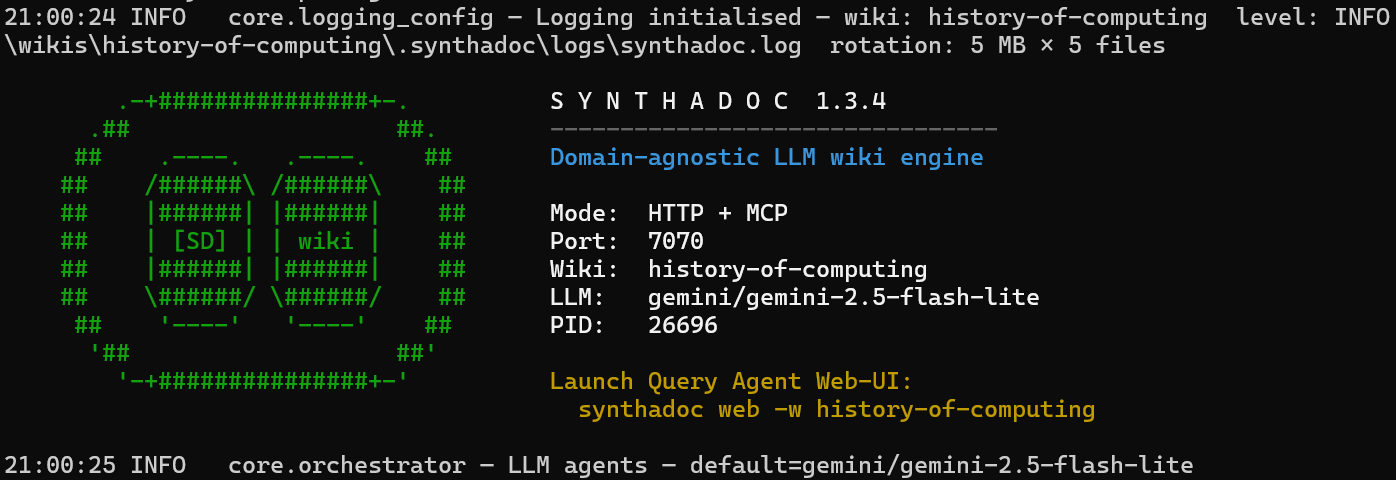
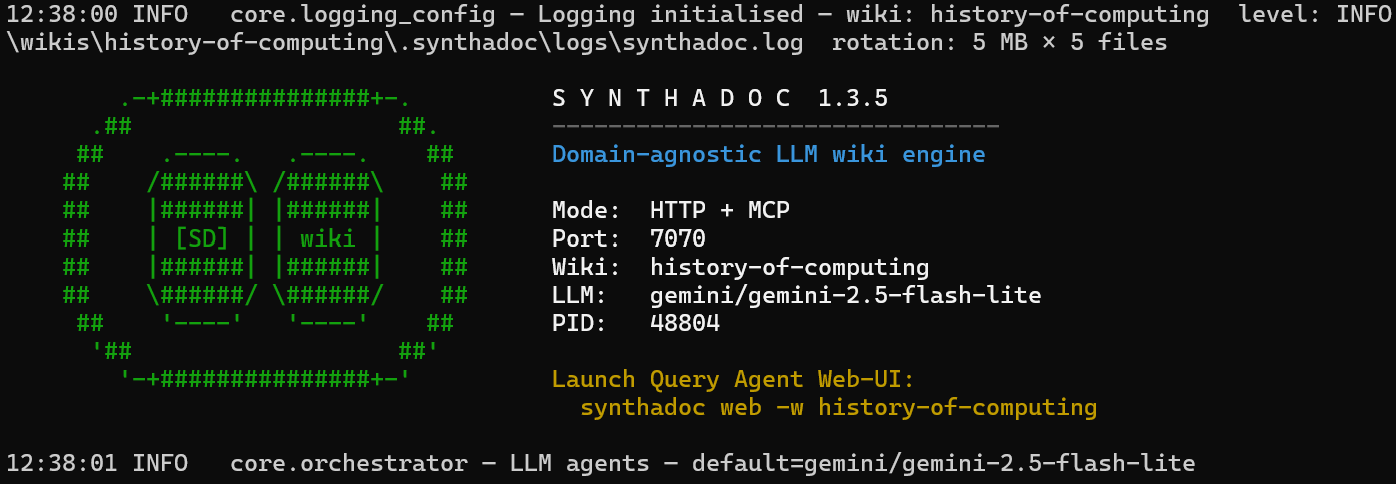
[v1.3.5] release prep (#424)
* chore: bump version to v1.3.5 and update release docs

- Bump VERSION, obsidian-plugin manifests, and package.json to 1.3.5
- Update README.md: version strings, web UI competitive row now mentions
  light/dark theme toggle
- Update docs/design.md: version header; add v1.3.5 Appendix A entry
  covering WAL mode, dark/light theme toggle, force-bypass staging,
  query-agent stale pre-prompt fix, candidates CLI delegation,
  Windows Ctrl-C shutdown, architecture diagram, and seed refresh
- Update docs/user-quick-start-guide.md: version header; add WAL mode
  note to Appendix J (Backup & Restore)
- Sync README-pypi.md from updated README.md
- Rebuild obsidian-plugin (v1.3.5) and web-ui for distribution

* docs: mention system mode in web UI theme toggle description

* update serve.png

diff --git a/README-pypi.md b/README-pypi.md
@@ -14,7 +14,7 @@
       '-+###############+-'
 
        S Y N T H A D O C
-    Community Edition  v1.3.4
+    Community Edition  v1.3.5
   ────────────────────────────────
   Domain-agnostic LLM wiki engine
 ```
@@ -31,10 +31,10 @@
 <a href="https://github.com/axoviq-ai/synthadoc"><img src="https://img.shields.io/badge/dynamic/json?url=https%3A%2F%2Fraw.githubusercontent.com%2Faxoviq-ai%2Fsynthadoc%2Fbadges%2Fdocs%2Fbadges.json&query=%24.cli_commands&label=CLI%20commands&color=darkblue" alt="CLI commands"/></a>
 <a href="https://github.com/axoviq-ai/synthadoc/tree/main/obsidian-plugin"><img src="https://img.shields.io/badge/dynamic/json?url=https%3A%2F%2Fraw.githubusercontent.com%2Faxoviq-ai%2Fsynthadoc%2Fbadges%2Fdocs%2Fbadges.json&query=%24.obsidian_commands&label=Obsidian%20commands&color=blueviolet" alt="Obsidian commands"/></a>
 <a href="https://github.com/axoviq-ai/synthadoc/blob/main/docs/user-quick-start-guide.md#agentic-workflows"><img src="https://img.shields.io/badge/dynamic/json?url=https%3A%2F%2Fraw.githubusercontent.com%2Faxoviq-ai%2Fsynthadoc%2Fbadges%2Fdocs%2Fbadges.json&query=%24.maintenance_workflows&label=Maintenance%20workflows&color=green" alt="Maintenance workflows"/></a>
-<a href="https://github.com/axoviq-ai/synthadoc"><img src="https://img.shields.io/badge/Community%20Edition-v1.3.4-brightgreen.svg" alt="Version"/></a>
+<a href="https://github.com/axoviq-ai/synthadoc"><img src="https://img.shields.io/badge/Community%20Edition-v1.3.5-brightgreen.svg" alt="Version"/></a>
 </p>
 
-**Document version: v1.3.4**
+**Document version: v1.3.5**
 
 **Engineered for solo users and enterprises alike, providing a domain-specific knowledge base that scales seamlessly while maintaining accuracy through autonomous self-optimization.**
 
@@ -192,7 +192,7 @@ Every **Yes** below is a built-in feature — no add-ons or upgrades required.
 | Capability                                                                                                                                                                                                                                                                                                                                                                                                                                                                                                                                   | Synthadoc | Typical RAG | NotebookLM | Notion AI |
 | -------------------------------------------------------------------------------------------------------------------------------------------------------------------------------------------------------------------------------------------------------------------------------------------------------------------------------------------------------------------------------------------------------------------------------------------------------------------------------------------------------------------------------------------- | --------- | ----------- | ---------- | --------- |
 | **[Obsidian integration](https://github.com/axoviq-ai/synthadoc/blob/main/docs/user-quick-start-guide.md#step-3--open-the-vault-in-obsidian)** — native plugin: ingest modal, streaming query, lint report, lifecycle controls, context pack builder, provenance viewer, export modal, **knowledge graph panel** (Canvas force graph, type filter, hover tooltip, click-to-open page); **background vault monitoring** (auto-snapshot on every file save, 2 s debounce, dedup so unchanged saves are free); Reading View set as default on install so citation chips are visible immediately | **Yes**   | No          | No         | No        |
-| **[Web chat UI](https://github.com/axoviq-ai/synthadoc/blob/main/docs/user-quick-start-guide.md#step-22--use-the-web-chat-ui)** — `synthadoc web`: streaming answers, session sidebar, multi-turn history, knowledge-gap callouts, knowledge graph tab                                                                                                                                                                                                                                                                                                                                       | **Yes**   | No          | Yes        | Yes       |
+| **[Web chat UI](https://github.com/axoviq-ai/synthadoc/blob/main/docs/user-quick-start-guide.md#step-22--use-the-web-chat-ui)** — `synthadoc web`: streaming answers, session sidebar, multi-turn history, knowledge-gap callouts, knowledge graph tab, **light/dark/system theme toggle**                                                                                                                                                                                                                                                                                                                                       | **Yes**   | No          | Yes        | Yes       |
 | **[MCP server](https://github.com/axoviq-ai/synthadoc/blob/main/docs/design.md#27-mcp-server)** — 12 tools; Claude Desktop (stdio), Claude Code (SSE), n8n/LangGraph (HTTP/SSE); brain+memory architecture; no double-LLM cost for reads                                                                                                                                                                                                                                                                                                                                                     | **Yes**   | No          | No         | No        |
 | **[Context packs](https://github.com/axoviq-ai/synthadoc/blob/main/docs/user-quick-start-guide.md#step-19--build-a-context-pack)** — goal → sub-questions → token-budget evidence pack; REST + MCP callable; paste into any LLM chat as grounded context                                                                                                                                                                                                                                                                                                                                   | **Yes**   | No          | No         | No        |
 | **[Export formats](https://github.com/axoviq-ai/synthadoc/blob/main/docs/user-quick-start-guide.md#step-21--export-your-wiki)** — `llms.txt`, `llms-full.txt`, GraphML, JSON (provenance + lifecycle), OKF v0.1 bundle; lifecycle-filtered; zero extra LLM calls                                                                                                                                                                                                                                                                                                                             | **Yes**   | No          | Partial    | No        |

diff --git a/README.md b/README.md
@@ -14,7 +14,7 @@
       '-+###############+-'
 
        S Y N T H A D O C
-    Community Edition  v1.3.4
+    Community Edition  v1.3.5
   ────────────────────────────────
   Domain-agnostic LLM wiki engine
 ```
@@ -31,10 +31,10 @@
 <a href="https://github.com/axoviq-ai/synthadoc"><img src="https://img.shields.io/badge/dynamic/json?url=https%3A%2F%2Fraw.githubusercontent.com%2Faxoviq-ai%2Fsynthadoc%2Fbadges%2Fdocs%2Fbadges.json&query=%24.cli_commands&label=CLI%20commands&color=darkblue" alt="CLI commands"/></a>
 <a href="https://github.com/axoviq-ai/synthadoc/tree/main/obsidian-plugin"><img src="https://img.shields.io/badge/dynamic/json?url=https%3A%2F%2Fraw.githubusercontent.com%2Faxoviq-ai%2Fsynthadoc%2Fbadges%2Fdocs%2Fbadges.json&query=%24.obsidian_commands&label=Obsidian%20commands&color=blueviolet" alt="Obsidian commands"/></a>
 <a href="https://github.com/axoviq-ai/synthadoc/blob/main/docs/user-quick-start-guide.md#agentic-workflows"><img src="https://img.shields.io/badge/dynamic/json?url=https%3A%2F%2Fraw.githubusercontent.com%2Faxoviq-ai%2Fsynthadoc%2Fbadges%2Fdocs%2Fbadges.json&query=%24.maintenance_workflows&label=Maintenance%20workflows&color=green" alt="Maintenance workflows"/></a>
-<a href="https://github.com/axoviq-ai/synthadoc"><img src="https://img.shields.io/badge/Community%20Edition-v1.3.4-brightgreen.svg" alt="Version"/></a>
+<a href="https://github.com/axoviq-ai/synthadoc"><img src="https://img.shields.io/badge/Community%20Edition-v1.3.5-brightgreen.svg" alt="Version"/></a>
 </p>
 
-**Document version: v1.3.4**
+**Document version: v1.3.5**
 
 **Engineered for solo users and enterprises alike, providing a domain-specific knowledge base that scales seamlessly while maintaining accuracy through autonomous self-optimization.**
 
@@ -209,7 +209,7 @@ Every **Yes** below is a built-in feature — no add-ons or upgrades required.
 | Capability                                                                                                                                                                                                                                                                                                                                                                                                                                                                                                                                   | Synthadoc | Typical RAG | NotebookLM | Notion AI |
 | -------------------------------------------------------------------------------------------------------------------------------------------------------------------------------------------------------------------------------------------------------------------------------------------------------------------------------------------------------------------------------------------------------------------------------------------------------------------------------------------------------------------------------------------- | --------- | ----------- | ---------- | --------- |
 | **[Obsidian integration](docs/user-quick-start-guide.md#step-3--open-the-vault-in-obsidian)** — native plugin: ingest modal, streaming query, lint report, lifecycle controls, context pack builder, provenance viewer, export modal, **knowledge graph panel** (Canvas force graph, type filter, hover tooltip, click-to-open page); **background vault monitoring** (auto-snapshot on every file save, 2 s debounce, dedup so unchanged saves are free); Reading View set as default on install so citation chips are visible immediately | **Yes**   | No          | No         | No        |
-| **[Web chat UI](docs/user-quick-start-guide.md#step-22--use-the-web-chat-ui)** — `synthadoc web`: streaming answers, session sidebar, multi-turn history, knowledge-gap callouts, knowledge graph tab                                                                                                                                                                                                                                                                                                                                       | **Yes**   | No          | Yes        | Yes       |
+| **[Web chat UI](docs/user-quick-start-guide.md#step-22--use-the-web-chat-ui)** — `synthadoc web`: streaming answers, session sidebar, multi-turn history, knowledge-gap callouts, knowledge graph tab, **light/dark/system theme toggle**                                                                                                                                                                                                                                                                                                                                       | **Yes**   | No          | Yes        | Yes       |
 | **[MCP server](docs/design.md#27-mcp-server)** — 12 tools; Claude Desktop (stdio), Claude Code (SSE), n8n/LangGraph (HTTP/SSE); brain+memory architecture; no double-LLM cost for reads                                                                                                                                                                                                                                                                                                                                                     | **Yes**   | No          | No         | No        |
 | **[Context packs](docs/user-quick-start-guide.md#step-19--build-a-context-pack)** — goal → sub-questions → token-budget evidence pack; REST + MCP callable; paste into any LLM chat as grounded context                                                                                                                                                                                                                                                                                                                                   | **Yes**   | No          | No         | No        |
 | **[Export formats](docs/user-quick-start-guide.md#step-21--export-your-wiki)** — `llms.txt`, `llms-full.txt`, GraphML, JSON (provenance + lifecycle), OKF v0.1 bundle; lifecycle-filtered; zero extra LLM calls                                                                                                                                                                                                                                                                                                                             | **Yes**   | No          | Partial    | No        |

diff --git a/docs/design.md b/docs/design.md
@@ -1,6 +1,6 @@
 # Synthadoc — Design Document
 
-**Version:** 1.3.4
+**Version:** 1.3.5
 **Audience:** Product users who want to understand how the system works; developers adding features, skills, and plugins.
 
 **Document owners:** Paul Chen, William Johnason
@@ -4157,6 +4157,17 @@ Accessible from the web UI (pre-prompt + hint chip "Fix broken citations"), natu
 ---
 
 ## Appendix A — Release Feature Index
+
+### v1.3.5
+
+- **Dark/light theme toggle in Web UI** — the web chat UI now ships a full polished light mode alongside the existing dark mode. A three-state **theme toggle** button (System / Dark / Light) sits at the right end of the tab bar; the choice persists in `localStorage` and is applied by an inline script before React renders, eliminating any flash-of-wrong-theme on reload. System mode follows the OS `prefers-color-scheme` media query. Both themes share the same design-token system — CSS custom properties defined once and overridden per theme — so accent colors, graph strokes, and sidebar labels all adapt correctly. Full light-mode polish covers the Query (Chat) tab, Graph tab, sidebar labels (`Cluster`, `Connections`, `Questions to Explore`, `Maintenance`), and all badge and border tokens. Light-mode text-contrast improvements (WCAG AA) applied in a follow-up pass, including raising `--text-faint` to `#6b7280` and fixing graph-label stroke bleed.
+- **WAL mode for all databases** — `audit.db`, `jobs.db`, and `cache.db` are now opened with `PRAGMA journal_mode=WAL; PRAGMA synchronous=NORMAL`. WAL mode allows multiple concurrent readers without blocking the writer, eliminating the `database is locked` errors that appeared when the CLI, Obsidian plugin, and server wrote simultaneously on Windows. Backup now uses `sqlite3.Connection.serialize()` (writes the entire database to bytes in-process) instead of a temporary file copy, making `synthadoc backup` safe on Windows and on active databases. Fully backward-compatible — existing databases upgrade automatically on first open.
+- **`--force` re-ingest bypasses staging policy** — when `force=True` is passed to `IngestAgent.run()`, both the `action=update` and `create-but-slug-exists` code paths now set `policy = "off"` regardless of `staging_policy` in `config.toml`. Previously a re-ingest of an existing page with `staging_policy = "all"` would write to `candidates/` instead of `wiki/`, leaving the live page unchanged. The fix ensures that `--force` on an existing page always updates the live page and clears the `truncated` flag correctly.
+- **Query agent — false stale pre-prompt fix** — `QueryAgent` was including pages from the current ingest job in the `changed_pages` list when building the post-response pre-prompt, causing a "re-ingest stale pages?" suggestion to appear immediately after an ingest whose pages had just been written. The fix filters out pages whose lifecycle state changed within the current request cycle before computing the stale-pages count for the pre-prompt.
+- **Candidates promote CLI delegates to server** — `synthadoc candidates promote` and `synthadoc candidates discard` now route through the running server's HTTP API (same as the web UI and Obsidian plugin) when a server is running, instead of writing directly to disk from the CLI process. This ensures promote/discard events are recorded in the audit trail and trigger the standard post-lifecycle hooks.
+- **Clean Ctrl-C shutdown on Windows** — `synthadoc serve` on Windows now handles `SIGINT` (Ctrl-C) via a `win32api.SetConsoleCtrlHandler` hook instead of relying on POSIX signal handling. The server drains in-progress requests and closes database connections before exiting, preventing `database is locked` errors and orphaned PIDs on interrupt.
+- **Architecture overview diagram** — `docs/png/architecture-overview.png` added; referenced from README.md in the Architecture section. Shows all major components and data flow in a single diagram.
+- **Domain template seeds refresh** — `seeds.md` curated URL lists refreshed for all 30 templates via `refresh_search_seeds.py`. `validate_seeds.py` rewritten to report broken and redirected URLs separately, with concurrency and retry logic for rate-limited domains.
 
 ### v1.3.4
 

diff --git a/docs/user-quick-start-guide.md b/docs/user-quick-start-guide.md
@@ -1,6 +1,6 @@
 # Synthadoc User Quick-Start Guide
 
-**Version: v1.3.4 (Community Edition)**
+**Version: v1.3.5 (Community Edition)**
 
 This guide walks you through the **History of Computing** demo wiki — a fully wired
 Synthadoc environment with 13 pre-built pages and six raw source files that cover every
@@ -4225,6 +4225,12 @@ For architecture details and the brain/memory use case framing, see [docs/design
 | Development workflow: freeze a good state, do risky dev, restore if needed | `backup` → dev work → `restore`         |
 | CI/test fixture: start from a known state before each run                  | `restore` at test start                   |
 | Share an exact wiki state with a colleague                                 | Send the zip, they run`restore`           |
+
+### Database reliability — WAL mode
+
+All Synthadoc databases (`audit.db`, `jobs.db`, `cache.db`) run in **WAL mode** (SQLite Write-Ahead Logging). WAL mode allows concurrent reads during writes, which eliminates `database is locked` errors when the CLI, Obsidian plugin, and server access the database simultaneously — a common source of friction on Windows. No configuration is needed; existing databases upgrade automatically on first open after a Synthadoc upgrade.
+
+Backup uses in-process serialization rather than a file copy, making `synthadoc backup` safe to run against a live database on any platform.
 
 ### Backup
 
